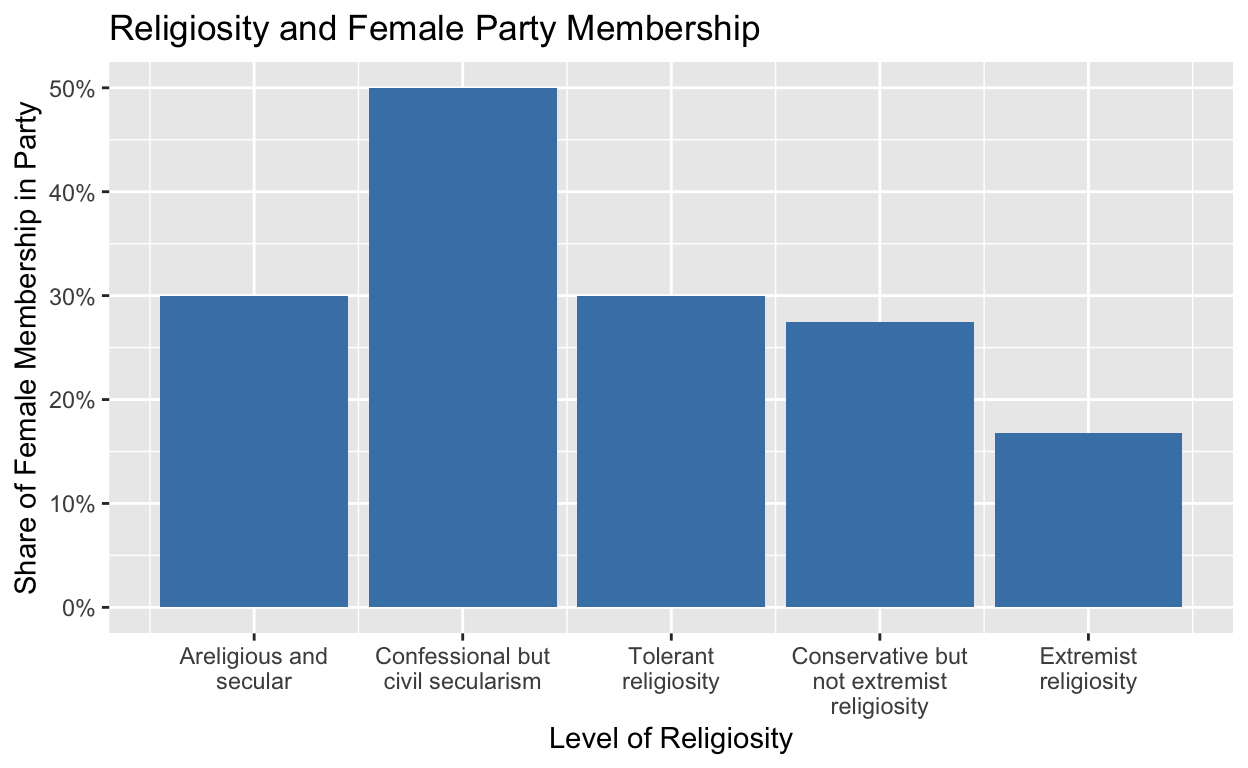
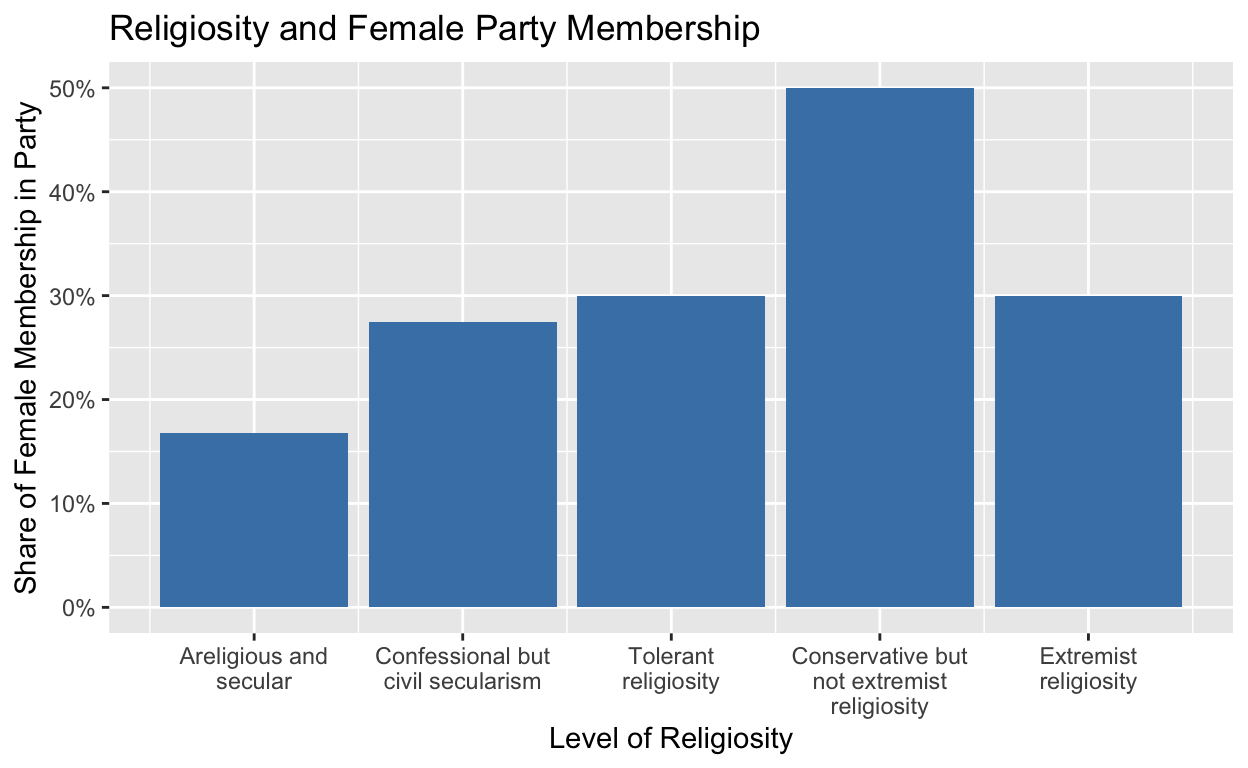
drive

Changed region(s): [[0.125, 0.0938, 0.4688, 0.5625], [0.625, 0.0938, 0.9688, 0.5625]]

diff --git a/index.html b/index.html
@@ -1518,11 +1518,13 @@ code span.wa { color: #5e5e5e; font-style: italic; } /* Warning */
 
 <div class="d-article">
 <h2 id="introduction">Introduction</h2>
-<p>In this project I explore the question: What is the relationship between party religiosity and share of female party membership in Lebanon? As an increasing amount women enter into politics in Lebanon, examining this relationship offers interesting insight into how religion, gender, and politics interact in the Levant. I will also examine party year of origin as another variable that may impact level of party religiosity and share of female party membership. I hypothesize that the share of female membership decreases as party religiosity increases. As is typical, I expect more religious parties to take more conservative stances with regards to the role of women in the political realm, which is often associated with an adherence to gender roles wherein women are seen as better suited to carry out more domestic-oriented, than public-facing tasks. Conversely, I hypothesize that less religious parties in Lebanon will exhibit higher shares of female membership, given the more liberal and open ideology often associated with non-religious groups. This study will offer insight into how religion may impact the political landscape and gender dynamics in Lebanon and may prompt further research into what specific religious components and features of a party spur or deter female political membership.</p>
+<p>In this project I explore the question: What is the relationship between party religiosity and share of female party membership in Lebanon? As an increasing amount women enter into politics in Lebanon, examining this relationship offers interesting insight into how religion, gender, and politics interact in the Levant. I will also examine and control for party year of origin as a potential confounding variable that may impact level of party religiosity and share of female party membership. I hypothesize that the share of female membership decreases as party religiosity increases. As is typical, I expect more religious parties to take more conservative stances with regards to the role of women in the political realm, which is often associated with an adherence to gender roles wherein women are seen as better suited to carry out more domestic-oriented, than public-facing tasks. Conversely, I hypothesize that less religious parties in Lebanon will exhibit higher shares of female membership, given the more liberal and open ideology often associated with non-religious groups. This study will offer insight into how religion may impact the political landscape and gender dynamics in Lebanon and may prompt further research into what specific religious components and features of a party spur or deter female political membership.</p>
+<p>Hypothesis: The share of female membership decreases as party religiosity increases.</p>
+<p>Null Hypothesis: There is no relationship between share of female membership and level of party religiosity.</p>
 <h2 id="data-and-research-method">Data and Research Method</h2>
 <p>In this study I draw on the “Party Variation in Religiosity and Women’s Leadership, Lebanon” dataset, which is sourced from the Association of Religion Data Archives. The data was collected between 2008 and 2010 and includes data on 18 different political parties in Lebanon. This data was collected by way of in-person via one-on-one interviews with party officials, leaders, and administrators.</p>
-<p>My explanatory or independent variable is level of party religiosity, with possible answers ranging from “Areligious and Secular” (coded as 5) to “Extremely Religious” (coded as 1).The full ranking of choices are as follows: 1) Extremely Religious, 2) Conservative but not extremist religiosity 3) tolerant religiosity 4) confessional but civil secularism 5) A religious and Secular. My outcome or dependentvariable is the share of female members in a given political party, represented as a percent. For example, if the share of a female membership is 15, it would indicate that 15% of party members are female.</p>
-<p>If I were to observe lower shares of female party membership for parties that are coded as having high levels of religiosity (likely coded as a 1 or 2), this would support my hypothesis. Conversely, if I were to observe the opposite effect, that female membership is higher for parties that exhibit higher levels of religiosity, this would provide evidence against my hypothesis.</p>
+<p>My explanatory or independent variable is level of party religiosity, with possible answers ranging from “Areligious and Secular” (coded as 1) to “Extremely Religious” (coded as 5).The full ranking of choices are as follows: 1) Areligious and Secular, 2) Confessional but civil secularism 3) tolerant religiosity 4) Conservative but not extremist religiosity 5) Extremist religiosity. My outcome or dependent variable is the share of female members in a given political party, represented as a percent. For example, if the share of a female membership is 15, it would indicate that 15% of party members are female.</p>
+<p>If I were to observe lower shares of female party membership for parties that are coded as having high levels of religiosity (likely coded as a 4 or 5), this would support my hypothesis that as party religiosity increases, share of female party membership decreases. Conversely, if I were to observe the opposite effect, that female membership is higher for parties that exhibit higher levels of religiosity, this would provide evidence against my hypothesis.</p>
 <p>This study is a cross-sectional design. Although the collection period ranged from 2008 to 2010, the collection does not measure change in any variables and the data is used to measure a single point in time.</p>
 <div class="layout-chunk" data-layout="l-body">
 <div class="sourceCode">
@@ -1535,28 +1537,61 @@ code span.wa { color: #5e5e5e; font-style: italic; } /* Warning */
 <span><span class='va'>women_religion</span> <span class='op'>&lt;-</span> <span class='fu'><a href='https://haven.tidyverse.org/reference/read_spss.html'>read_sav</a></span><span class='op'>(</span><span class='st'>"Party Variation in Religiosity and Womens Leadership Lebanon Dataset.SAV"</span><span class='op'>)</span></span>
 <span></span>
 <span><span class='co'>#grouping by level of religiosity and calculating the mean female party membership for each group</span></span>
+<span></span>
+<span><span class='va'>women_religion</span><span class='op'>$</span><span class='va'>SECLRSM</span></span></code></pre>
+</div>
+<pre><code>&lt;labelled&lt;double&gt;[18]&gt;: Religiosity/secularism of party
+ [1] 5 5 4 4 5 4 4 1 3 1 2 4 5 4 4 1 4 4
+
+Labels:
+ value                                      label
+     1                      Extremist religiosity
+     2 Conservative but not extremist religiosity
+     3                       Tolerant religiosity
+     4          Confessional but civil secularism
+     5                     Areligious and secular</code></pre>
+<div class="sourceCode">
+<pre class="sourceCode r"><code class="sourceCode r"><span><span class='va'>women_religion</span><span class='op'>$</span><span class='va'>SECLRSM2</span><span class='op'>&lt;-</span><span class='cn'>NA</span></span>
+<span><span class='va'>women_religion</span><span class='op'>$</span><span class='va'>SECLRSM2</span><span class='op'>&lt;-</span><span class='fu'><a href='https://rdrr.io/r/base/ifelse.html'>ifelse</a></span><span class='op'>(</span><span class='va'>women_religion</span><span class='op'>$</span><span class='va'>SECLRSM</span><span class='op'>==</span><span class='fl'>1</span>,<span class='fl'>5</span>,<span class='va'>women_religion</span><span class='op'>$</span><span class='va'>SECLRSM2</span><span class='op'>)</span></span>
+<span><span class='va'>women_religion</span><span class='op'>$</span><span class='va'>SECLRSM2</span><span class='op'>&lt;-</span><span class='fu'><a href='https://rdrr.io/r/base/ifelse.html'>ifelse</a></span><span class='op'>(</span><span class='va'>women_religion</span><span class='op'>$</span><span class='va'>SECLRSM</span><span class='op'>==</span><span class='fl'>2</span>,<span class='fl'>4</span>,<span class='va'>women_religion</span><span class='op'>$</span><span class='va'>SECLRSM2</span><span class='op'>)</span></span>
+<span><span class='va'>women_religion</span><span class='op'>$</span><span class='va'>SECLRSM2</span><span class='op'>&lt;-</span><span class='fu'><a href='https://rdrr.io/r/base/ifelse.html'>ifelse</a></span><span class='op'>(</span><span class='va'>women_religion</span><span class='op'>$</span><span class='va'>SECLRSM</span><span class='op'>==</span><span class='fl'>3</span>,<span class='fl'>3</span>,<span class='va'>women_religion</span><span class='op'>$</span><span class='va'>SECLRSM2</span><span class='op'>)</span></span>
+<span><span class='va'>women_religion</span><span class='op'>$</span><span class='va'>SECLRSM2</span><span class='op'>&lt;-</span><span class='fu'><a href='https://rdrr.io/r/base/ifelse.html'>ifelse</a></span><span class='op'>(</span><span class='va'>women_religion</span><span class='op'>$</span><span class='va'>SECLRSM</span><span class='op'>==</span><span class='fl'>4</span>,<span class='fl'>2</span>,<span class='va'>women_religion</span><span class='op'>$</span><span class='va'>SECLRSM2</span><span class='op'>)</span></span>
+<span><span class='va'>women_religion</span><span class='op'>$</span><span class='va'>SECLRSM2</span><span class='op'>&lt;-</span><span class='fu'><a href='https://rdrr.io/r/base/ifelse.html'>ifelse</a></span><span class='op'>(</span><span class='va'>women_religion</span><span class='op'>$</span><span class='va'>SECLRSM</span><span class='op'>==</span><span class='fl'>5</span>,<span class='fl'>1</span>,<span class='va'>women_religion</span><span class='op'>$</span><span class='va'>SECLRSM2</span><span class='op'>)</span></span>
+<span><span class='fu'><a href='https://rdrr.io/r/base/print.html'>print</a></span><span class='op'>(</span><span class='fu'><a href='https://rdrr.io/r/base/table.html'>table</a></span><span class='op'>(</span><span class='va'>women_religion</span><span class='op'>$</span><span class='va'>SECLRSM2</span><span class='op'>)</span><span class='op'>)</span></span></code></pre>
+</div>
+<pre><code>
+1 2 3 4 5 
+4 9 1 1 3 </code></pre>
+<div class="sourceCode">
+<pre class="sourceCode r"><code class="sourceCode r"><span><span class='fu'><a href='https://rdrr.io/r/base/print.html'>print</a></span><span class='op'>(</span><span class='fu'><a href='https://rdrr.io/r/base/table.html'>table</a></span><span class='op'>(</span><span class='va'>women_religion</span><span class='op'>$</span><span class='va'>SECLRSM</span><span class='op'>)</span><span class='op'>)</span></span></code></pre>
+</div>
+<pre><code>
+1 2 3 4 5 
+3 1 1 9 4 </code></pre>
+<div class="sourceCode">
+<pre class="sourceCode r"><code class="sourceCode r"><span><span class='va'>women_religion</span><span class='op'>$</span><span class='va'>SECLRSM</span><span class='op'>&lt;-</span><span class='va'>women_religion</span><span class='op'>$</span><span class='va'>SECLRSM2</span></span>
+<span></span>
 <span><span class='va'>fem_membership_mean</span> <span class='op'>&lt;-</span> <span class='va'>women_religion</span> <span class='op'><a href='https://magrittr.tidyverse.org/reference/pipe.html'>%&gt;%</a></span></span>
 <span>  <span class='fu'><a href='https://dplyr.tidyverse.org/reference/group_by.html'>group_by</a></span><span class='op'>(</span><span class='va'>SECLRSM</span><span class='op'>)</span> <span class='op'><a href='https://magrittr.tidyverse.org/reference/pipe.html'>%&gt;%</a></span></span>
 <span> <span class='fu'><a href='https://dplyr.tidyverse.org/reference/summarise.html'>summarize</a></span><span class='op'>(</span></span>
 <span>   fem_avg <span class='op'>=</span> <span class='fu'><a href='https://rdrr.io/r/base/mean.html'>mean</a></span><span class='op'>(</span><span class='va'>F_MEM</span>, na.rm <span class='op'>=</span> <span class='cn'>TRUE</span><span class='op'>)</span><span class='op'>)</span></span>
 <span></span>
-<span><span class='va'>fem_membership_mean</span> </span></code></pre>
+<span><span class='va'>fem_membership_mean</span><span class='op'>$</span><span class='va'>SECLRSM</span></span></code></pre>
 </div>
-<pre><code># A tibble: 5 × 2
-  SECLRSM                                        fem_avg
-  &lt;dbl+lbl&gt;                                        &lt;dbl&gt;
-1 1 [Extremist religiosity]                         30  
-2 2 [Conservative but not extremist religiosity]    50  
-3 3 [Tolerant religiosity]                          30  
-4 4 [Confessional but civil secularism]             27.4
-5 5 [Areligious and secular]                        16.8</code></pre>
+<pre><code>[1] 1 2 3 4 5</code></pre>
 <div class="sourceCode">
-<pre class="sourceCode r"><code class="sourceCode r"><span><span class='co'>#configuring x axis labels</span></span>
-<span><span class='va'>xlabels</span> <span class='op'>&lt;-</span> <span class='fu'><a href='https://rdrr.io/r/base/c.html'>c</a></span><span class='op'>(</span><span class='st'>"Areligious and secular"</span>,</span>
-<span>  <span class='st'>"Confessional but civil secularism"</span>,</span>
-<span>  <span class='st'>"Tolerant religiosity"</span>,</span>
-<span>  <span class='st'>"Conservative but not extremist religiosity"</span>,</span>
-<span>  <span class='st'>"Extremist religiosity"</span><span class='op'>)</span></span>
+<pre class="sourceCode r"><code class="sourceCode r"><span><span class='va'>fem_membership_mean</span><span class='op'>$</span><span class='va'>fem_avg</span></span></code></pre>
+</div>
+<pre><code>[1] 16.75000 27.44444 30.00000 50.00000 30.00000</code></pre>
+<div class="sourceCode">
+<pre class="sourceCode r"><code class="sourceCode r"><span><span class='co'>#changing order of variables so that it ranges from secular to extremely religious</span></span>
+<span></span>
+<span></span>
+<span></span>
+<span><span class='co'>#configuring x axis labels</span></span>
+<span></span>
+<span></span>
+<span><span class='va'>xlabels</span> <span class='op'>&lt;-</span> <span class='fu'><a href='https://rdrr.io/r/base/c.html'>c</a></span><span class='op'>(</span><span class='st'>"Areligious and secular"</span>, <span class='st'>"Confessional but civil secularism"</span>, <span class='st'>"Tolerant religiosity"</span>, <span class='st'>"Conservative but not extremist religiosity"</span>, <span class='st'>"Extremist religiosity"</span><span class='op'>)</span></span>
 <span></span>
 <span><span class='va'>wrapped_labels</span> <span class='op'>&lt;-</span> <span class='fu'><a href='https://stringr.tidyverse.org/reference/str_wrap.html'>str_wrap</a></span><span class='op'>(</span><span class='va'>xlabels</span>, width <span class='op'>=</span> <span class='fl'>19</span><span class='op'>)</span></span>
 <span></span>
@@ -1572,14 +1607,14 @@ code span.wa { color: #5e5e5e; font-style: italic; } /* Warning */
 <span>   <span class='fu'><a href='https://ggplot2.tidyverse.org/reference/scale_continuous.html'>scale_y_continuous</a></span><span class='op'>(</span>labels <span class='op'>=</span> <span class='fu'>scales</span><span class='fu'>::</span><span class='fu'><a href='https://scales.r-lib.org/reference/percent_format.html'>percent_format</a></span><span class='op'>(</span>scale <span class='op'>=</span> <span class='fl'>1</span><span class='op'>)</span><span class='op'>)</span> <span class='op'>+</span></span>
 <span>  <span class='fu'><a href='https://ggplot2.tidyverse.org/reference/scale_continuous.html'>scale_x_continuous</a></span><span class='op'>(</span></span>
 <span>    breaks <span class='op'>=</span> <span class='fu'><a href='https://rdrr.io/r/base/numeric.html'>as.numeric</a></span><span class='op'>(</span><span class='va'>fem_membership_mean</span><span class='op'>$</span><span class='va'>SECLRSM</span><span class='op'>)</span>,</span>
-<span>    labels <span class='op'>=</span>  <span class='va'>wrapped_labels</span><span class='op'>)</span></span>
+<span>    labels <span class='op'>=</span> <span class='va'>wrapped_labels</span><span class='op'>)</span></span>
 <span></span>
 <span></span>
 <span><span class='va'>rel_fem_plot</span></span></code></pre>
 </div>
 <p><img src="index_files/figure-html5/unnamed-chunk-1-1.png" width="624" /></p>
 </div>
-<p>The above bar plot shows the relationship between religiosity (on a scale from 1 - 5, 1 being the least religious) and share of female party membership (reflected as a percentage). From this graph we can see that the share of female membership generally decreases as religiosity increases. The greatest level of female membership is seen at level 2, dubbed “confessional but civil secularism” and the lowest is at level 5, dubbed “extremist religiosity.” However, the exact extent of the relationship between these two variables is not entirely clear without further analysis.</p>
+<p>The above bar plot shows the relationship between religiosity (on a scale from 1 - 5, 1 being the most secular and 5 being the most religious) and share of female party membership (reflected as a percentage). From this graph, there is no clear evidence to support my hypothesis that as level of religiosity increases, share of female party decreases. In fact, at first glace, the data may suggest the opposite, as the greatest level of female membership is seen at level 4, or “conservative but not extremist religiosity” and the lowest is at level 1, dubbed “Areligious and secular.” However, the exact extent of the relationship between these two variables is not entirely clear without further statistical analysiss of the relationship between these two variables.</p>
 <h2 id="results">Results</h2>
 <div class="layout-chunk" data-layout="l-body">
 <div class="sourceCode">
@@ -1604,13 +1639,13 @@ code span.wa { color: #5e5e5e; font-style: italic; } /* Warning */
 <tbody>
 <tr class="odd">
 <td style="text-align: left;">(Intercept)</td>
-<td style="text-align: right;">39.808</td>
-<td style="text-align: right;">8.492</td>
-<td style="text-align: right;">0.000</td>
+<td style="text-align: right;">18.007</td>
+<td style="text-align: right;">6.231</td>
+<td style="text-align: right;">0.011</td>
 </tr>
 <tr class="even">
 <td style="text-align: left;">SECLRSM</td>
-<td style="text-align: right;">-3.634</td>
+<td style="text-align: right;">3.634</td>
 <td style="text-align: right;">2.234</td>
 <td style="text-align: right;">0.123</td>
 </tr>
@@ -1619,15 +1654,15 @@ code span.wa { color: #5e5e5e; font-style: italic; } /* Warning */
 </div>
 <p>Interpretation of regression, Religiosity on share of female party membership:</p>
 <p>In this case, the intercept of 39.808 has no practical meaning since religiosity is will never be 0. The scale of religiosity only ranges from 1 - 5.</p>
-<p>The SECLRSM coefficient (religiosity) is -3.634. This means that for a one level increase in religiosity, the share of female party membership is expected to decrease by 3.634 percentage points. Thus, it seems that on average, as religiosity increases, female party membership decreases by 3.634 percentage points. However, because the p-value (0.123) is greater than .05, it appears that the relationship between female membership and party religiosity is not statistically significant. Thus, we cannot conclude any sort of causal relationship, as there are many other variables that may be impacting the relationship between the two variables, such as party size, evolving party charters, social norms, and more.</p>
+<p>The SECLRSM coefficient (religiosity) is 3.634. This means that for a one level increase in religiosity, the share of female party membership is expected to increase by 3.634 percentage points. Thus, it seems that on average, as religiosity increases, female party membership increases by 3.634 percentage points. However, because the p-value (0.123) is greater than .05, it appears that the relationship between female membership and party religiosity is not statistically significant. Thus, we cannot reject the null hypothesis that there is no relationship between level of religiosity and share of female party membership. Furthermore, we cannot conclude any sort of causal relationship, as there are many other confounding variables that may be impacting the relationship between the two variables, such as year of origin, party size, evolving party charters, social norms, and more.</p>
 <div class="layout-chunk" data-layout="l-body">
 <div class="sourceCode">
-<pre class="sourceCode r"><code class="sourceCode r"><span><span class='co'>#visualization of relationship between level of party religiusity and female party membership</span></span>
+<pre class="sourceCode r"><code class="sourceCode r"><span><span class='co'>#visualization of relationship between level of party religiosity and female party membership</span></span>
 <span><span class='va'>plot_religiosity</span> <span class='op'>&lt;-</span> <span class='fu'><a href='https://ggplot2.tidyverse.org/reference/ggplot.html'>ggplot</a></span><span class='op'>(</span><span class='va'>women_religion</span>, <span class='fu'><a href='https://ggplot2.tidyverse.org/reference/aes.html'>aes</a></span><span class='op'>(</span>x <span class='op'>=</span> <span class='va'>SECLRSM</span>, y <span class='op'>=</span> <span class='va'>F_MEM</span><span class='op'>)</span><span class='op'>)</span> <span class='op'>+</span></span>
 <span>  <span class='fu'><a href='https://ggplot2.tidyverse.org/reference/geom_point.html'>geom_point</a></span><span class='op'>(</span><span class='op'>)</span> <span class='op'>+</span></span>
 <span>  <span class='fu'><a href='https://ggplot2.tidyverse.org/reference/geom_smooth.html'>geom_smooth</a></span><span class='op'>(</span>method <span class='op'>=</span> <span class='st'>"lm"</span>, se <span class='op'>=</span> <span class='cn'>FALSE</span>, color <span class='op'>=</span> <span class='st'>"red"</span><span class='op'>)</span> <span class='op'>+</span></span>
 <span>  <span class='fu'><a href='https://ggplot2.tidyverse.org/reference/labs.html'>labs</a></span><span class='op'>(</span></span>
-<span>    title <span class='op'>=</span> <span class='st'>"Relationship between Religiosity and Female Membership"</span>,</span>
+<span>    title <span class='op'>=</span> <span class='st'>"Relationship Between Religiosity and Female Membership"</span>,</span>
 <span>    x <span class='op'>=</span> <span class='st'>"Religiosity"</span>,</span>
 <span>    y <span class='op'>=</span> <span class='st'>"Female Membership"</span></span>
 <span>  <span class='op'>)</span></span>
@@ -1672,7 +1707,7 @@ code span.wa { color: #5e5e5e; font-style: italic; } /* Warning */
 </table>
 </div>
 <p>Interpretation of regression: Year of party origin on share of female party membership:</p>
-<p>While the intercept is not a relevant measure here since the year will never be equal to 0, the coefficient of YRORGN (year of party origin) is 0.3143. This means that for each one-year increase in the year of party origin (as in one year closer to present time), the share of female party membership is expected to increase by 0.3143 percentage points. This suggests that on average, each year closer to present time that a party was established, the share of female membership will increase 0.3143 percentage points. Unlike the previous relationship between female membership and party religiosity, here, because the p-value (0.002) is less than .05, it appears that the relationship between female membership and year of origin is in fact statistically significant, meaning that the relationship we see between year of origin and share of female party membership is likely not due to random chance.</p>
+<p>While the intercept is not a relevant measure here since the year will never be equal to 0, the coefficient of YRORGN (year of party origin) is 0.3143. This suggests that on average, each year closer to present time that a party was established, the share of female membership will increase 0.3143 percentage points. Unlike the previous relationship between female membership and party religiosity, here, because the p-value (0.002) is less than .05, it appears that the relationship between female membership and year of origin is in fact statistically significant, meaning that the relationship we see between year of origin and share of female party membership is likely not due to random chance. Now, I will test for statistical significance between share of female party membership and level of party religiosity while controlling for year of origin to see whether the significant relationship between year of origin and share of female party membership is a confounding variable in the context of level of religiosity and share of female membership.</p>
 <div class="layout-chunk" data-layout="l-body">
 <div class="sourceCode">
 <pre class="sourceCode r"><code class="sourceCode r"><span><span class='co'>#visualization of relationship between year of party origin and female party membership</span></span>
@@ -1689,57 +1724,6 @@ code span.wa { color: #5e5e5e; font-style: italic; } /* Warning */
 <span><span class='va'>plot_year</span></span></code></pre>
 </div>
 <p><img src="index_files/figure-html5/unnamed-chunk-5-1.png" width="624" /></p>
-</div>
-<div class="layout-chunk" data-layout="l-body">
-<div class="sourceCode">
-<pre class="sourceCode r"><code class="sourceCode r"><span><span class='co'>#single variable regression, year of origin on religiosity</span></span>
-<span><span class='va'>fem_membership_year_regression</span> <span class='op'>&lt;-</span> <span class='fu'><a href='https://rdrr.io/r/stats/lm.html'>lm</a></span><span class='op'>(</span><span class='va'>SECLRSM</span> <span class='op'>~</span> <span class='va'>YRORGN</span>, data <span class='op'>=</span> <span class='va'>women_religion</span><span class='op'>)</span> <span class='op'><a href='https://magrittr.tidyverse.org/reference/pipe.html'>%&gt;%</a></span></span>
-<span><span class='fu'>broom</span><span class='fu'>::</span><span class='fu'><a href='https://generics.r-lib.org/reference/tidy.html'>tidy</a></span><span class='op'>(</span><span class='op'>)</span><span class='op'><a href='https://magrittr.tidyverse.org/reference/pipe.html'>%&gt;%</a></span></span>
-<span>  <span class='fu'><a href='https://dplyr.tidyverse.org/reference/select.html'>select</a></span><span class='op'>(</span><span class='va'>term</span>, est<span class='op'>=</span><span class='va'>estimate</span>, se<span class='op'>=</span><span class='va'>std.error</span>, pval<span class='op'>=</span><span class='va'>p.value</span><span class='op'>)</span></span>
-<span></span>
-<span></span>
-<span><span class='fu'>knitr</span><span class='fu'>::</span><span class='fu'><a href='https://rdrr.io/pkg/knitr/man/kable.html'>kable</a></span><span class='op'>(</span><span class='va'>fem_membership_year_regression</span>, digits<span class='op'>=</span><span class='fl'>3</span>, col.names <span class='op'>=</span> <span class='fu'><a href='https://rdrr.io/r/base/c.html'>c</a></span><span class='op'>(</span><span class='st'>"Variable"</span>, <span class='st'>"Coefficient Estimate"</span>, <span class='st'>"Standard Error"</span>, <span class='st'>"P-Value"</span><span class='op'>)</span><span class='op'>)</span></span></code></pre>
-</div>
-<table>
-<thead>
-<tr class="header">
-<th style="text-align: left;">Variable</th>
-<th style="text-align: right;">Coefficient Estimate</th>
-<th style="text-align: right;">Standard Error</th>
-<th style="text-align: right;">P-Value</th>
-</tr>
-</thead>
-<tbody>
-<tr class="odd">
-<td style="text-align: left;">(Intercept)</td>
-<td style="text-align: right;">31.619</td>
-<td style="text-align: right;">22.290</td>
-<td style="text-align: right;">0.175</td>
-</tr>
-<tr class="even">
-<td style="text-align: left;">YRORGN</td>
-<td style="text-align: right;">-0.014</td>
-<td style="text-align: right;">0.011</td>
-<td style="text-align: right;">0.226</td>
-</tr>
-</tbody>
-</table>
-</div>
-<p>While the intercept is not a relevant measure here since the year will never be equal to 0, the coefficient of YRORGN (year of party origin) is -0.014. This means that for each one-year increase in the year of party origin (as in one year closer to present time), the level of party religiosity is expected to decrease by 0.014 of a level. This suggests that on average, each year closer to present time that a party was established, the level of party religiosity will decrease by 0.014 of a level. However, since the p-value (0.226) is greater than .05, it appears that the relationship between year of origin and religiosity is not statistically significant, meaning that the relationship we see between year of origin and share of female party membership is likely due to random chance.</p>
-<div class="layout-chunk" data-layout="l-body">
-<div class="sourceCode">
-<pre class="sourceCode r"><code class="sourceCode r"><span><span class='va'>plot_religiosity_year</span> <span class='op'>&lt;-</span> <span class='fu'><a href='https://ggplot2.tidyverse.org/reference/ggplot.html'>ggplot</a></span><span class='op'>(</span><span class='va'>women_religion</span>, <span class='fu'><a href='https://ggplot2.tidyverse.org/reference/aes.html'>aes</a></span><span class='op'>(</span>x <span class='op'>=</span> <span class='va'>YRORGN</span>, y <span class='op'>=</span> <span class='va'>SECLRSM</span><span class='op'>)</span><span class='op'>)</span> <span class='op'>+</span></span>
-<span>  <span class='fu'><a href='https://ggplot2.tidyverse.org/reference/geom_point.html'>geom_point</a></span><span class='op'>(</span><span class='op'>)</span> <span class='op'>+</span></span>
-<span>  <span class='fu'><a href='https://ggplot2.tidyverse.org/reference/geom_smooth.html'>geom_smooth</a></span><span class='op'>(</span>method <span class='op'>=</span> <span class='st'>"lm"</span>, se <span class='op'>=</span> <span class='cn'>FALSE</span>, color <span class='op'>=</span> <span class='st'>"red"</span><span class='op'>)</span> <span class='op'>+</span></span>
-<span>  <span class='fu'><a href='https://ggplot2.tidyverse.org/reference/labs.html'>labs</a></span><span class='op'>(</span></span>
-<span>    title <span class='op'>=</span> <span class='st'>"Relationship between Religiosity and Year of Origin"</span>,</span>
-<span>    x <span class='op'>=</span> <span class='st'>"Year of Origin"</span>,</span>
-<span>    y <span class='op'>=</span> <span class='st'>"Religiosity"</span></span>
-<span>  <span class='op'>)</span></span>
-<span></span>
-<span><span class='va'>plot_religiosity_year</span></span></code></pre>
-</div>
-<p><img src="index_files/figure-html5/unnamed-chunk-7-1.png" width="624" /></p>
 </div>
 <div class="layout-chunk" data-layout="l-body">
 <div class="sourceCode">
@@ -1763,9 +1747,9 @@ code span.wa { color: #5e5e5e; font-style: italic; } /* Warning */
 <tbody>
 <tr class="odd">
 <td style="text-align: left;">(Intercept)</td>
-<td style="text-align: right;">-536.150</td>
-<td style="text-align: right;">173.861</td>
-<td style="text-align: right;">0.008</td>
+<td style="text-align: right;">-546.975</td>
+<td style="text-align: right;">170.493</td>
+<td style="text-align: right;">0.006</td>
 </tr>
 <tr class="even">
 <td style="text-align: left;">YRORGN</td>
@@ -1775,23 +1759,24 @@ code span.wa { color: #5e5e5e; font-style: italic; } /* Warning */
 </tr>
 <tr class="odd">
 <td style="text-align: left;">SECLRSM</td>
-<td style="text-align: right;">-1.804</td>
+<td style="text-align: right;">1.804</td>
 <td style="text-align: right;">1.838</td>
 <td style="text-align: right;">0.342</td>
 </tr>
 </tbody>
 </table>
 </div>
-<p>Interpretation of regression: Religiosity AND year of party origin on share of female party membership:</p>
+<p>Interpretation of regression: Religiosity on share of female party membership while controlling for year of party origin</p>
 <p>The intercept has no practical meaning in this case since neither level of religiosity nor year of origin will ever be equal to 0.</p>
 <p>The coefficient of YRORGN is 0.2886. This means that, for each year closer to present time that a party was established, the the share of female party membership is expected to increase 0.2886 percentage points.</p>
-<p>The coefficient for SECLRSM is -1.8041. This means that for each level increase in religiosity (SECLRSM), the share of female membership expected to decrease by 1.8041 percentage points.</p>
-<p>However, it is important to note that because SECLRSM (level of religiosity) was shown to not have a statistically significant effect on share of female party membership in Lebanon, this multi-variable model is not the best for demonstrating the relationship between these three variables.</p>
+<p>The coefficient for SECLRSM is 1.8041. This means that for each level increase in religiosity (SECLRSM), the share of female membership expected to increase by 1.8041 percentage points, while controlling for year of origin. However, the p-value is 0.342 which is greater than 0.05, meaning that even while controlling for year of party origin, there is still no statistically significant relationship between level of religiosity and share of female party membership. Thus, we still cannot reject the null hypothesis that there is no relationship between level of party religiosity and share of female party membership.</p>
 <h2 id="conclusion">Conclusion</h2>
-<p>While the regression shows a negative relationship between the two key variables, level of religiosity and share of female party membership, meaning that as religiosity increases, share of female party membership tended to decrease, given that the p-value exceeds 0.05, these results are not statistically significant. Thus, we cannot conclude any causal relationship between level of religiosity and female party membership. However, examining year of party origin, I found that there was a positive statistically significant relationship between the year a party was established and share of female party membership, indicating that the more recently a party was a established, the higher its female membership share tends to be. However, because there are likely other confounders left unaccounted for, I cannot conclude any (causal) relationship beyond correlation. These results may reflect changing attitudes and social norms around women in Lebanon with regards to their role in politics, or the public sphere in general. This study certainly prompts further research into changing social norms around women in Lebanon and other confounding variables that may be influencing these results.</p>
+<p>While the regression shows a positive relationship between level of religiosity and share of female party membership, meaning that as religiosity increases, share of female party membership tended to increase as well, given that the p-value exceeds 0.05 (even when controlling for the year of party origin), these results are not statistically significant. Thus, I cannot reject the null hypothesis that there is no significant relationship between level of party religiosity and share of female party membership. Furthermore, I cannot conclude any causal relationship between level of religiosity and female party membership nor find any evidence to support my original hypothesis that as level of religiosity increases, share of party membership will tend to decrease.</p>
+<p>However, when examining year of party origin as a secondary, potentially confounding variable on religiosity, I found that there was a positive statistically significant relationship between the year a party was established and share of female party membership, indicating that the more recently a party was a established, the higher its female membership share tends to be. However, because there are likely other confounders left unaccounted for (and not included in this dataset) such as party size, education level of party leadership, internal party structures and more, I cannot conclude any (causal) relationship beyond correlation. These results may reflect changing attitudes and social norms around women in Lebanon with regards to their role in politics, or the public sphere in general.</p>
+<p>This study certainly prompts further research into changing social norms around women in Lebanon, their relationship to religion in the public sphere, and other confounding variables that may be influencing the lack of relationship between these two key variables that we might expect to exhibit a statistically significant relationship.</p>
 <p>There are several key limitations to this study. First, the study only includes 18 parties when there are over 90 active parties in Lebanon. With more data, this type of analysis may yield different results that more accurately reflect the relationship between the variables at hand. Additionally, since this data was collected via interviews with party officials and administrators, there may be unaccounted for bias since the data was largely self-reported.</p>
-<p>This study could be improved by further exploring possible confounding variables that contribute to the significant relationship between year of party origin and share of female party membership. As of now, the temporal dynamics and the changes in female membership over time are still left largely unexplored. Additionally, this study could draw on data from other sources to corroborate the data (such as true level of religiosity and female membership share) used in this study in order to combat the aforementioned response bias in the collection process.</p>
-<div class="sourceCode" id="cb2"><pre class="sourceCode r distill-force-highlighting-css"><code class="sourceCode r"></code></pre></div>
+<p>This study could be improved by further exploring possible confounding variables that contribute the lacking relationship between level of religiosity and share of female party membership as well as those that may be contributing to the significant relationship between year of party origin and share of female party membership. As of now, the temporal dynamics and the changes in female membership over time are still left largely unexplored and other factors such as level of female education, changing social norms and more can likely explain. This study could also draw on data from other sources to corroborate the level of religiosity and share of female party membership used in this study in order to combat the aforementioned response bias in the collection process since party elites may feel compelled to represent their party and its level of female membership in a particular way. Also, future studies might explore the marital status, education, and other person factors that might be significant among women who are a part of these political parties and how these variables differ across level of religiosity.</p>
+<div class="sourceCode" id="cb6"><pre class="sourceCode r distill-force-highlighting-css"><code class="sourceCode r"></code></pre></div>
 <!--radix_placeholder_article_footer-->
 <!--/radix_placeholder_article_footer-->
 </div>
